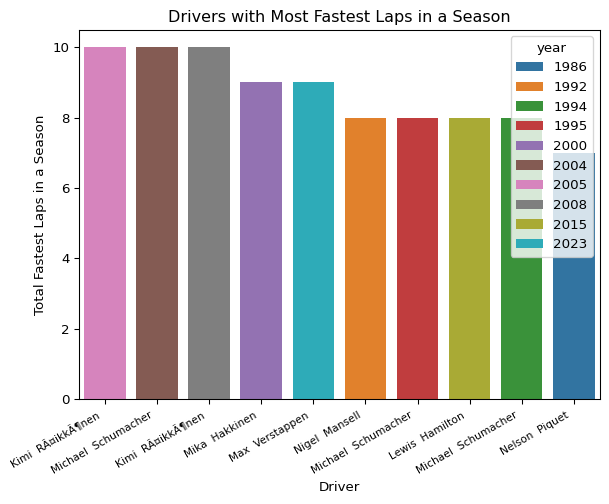
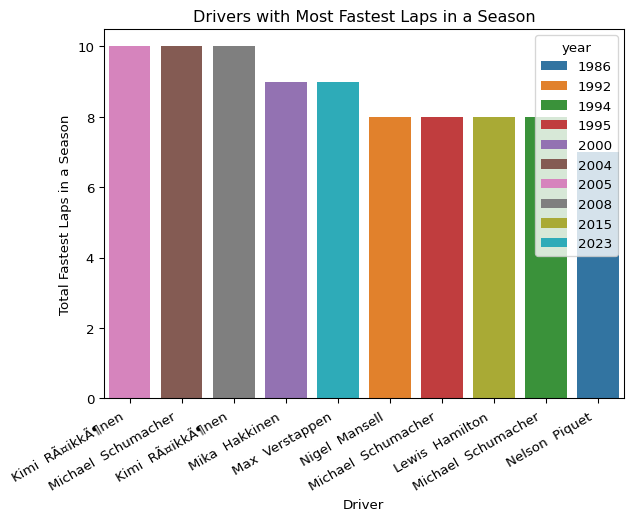
Updating README

diff --git a/README.md b/README.md
@@ -43,18 +43,7 @@ teams.head()
 winners.head()
 ```
 
-<div>
-<style scoped>
-    .dataframe tbody tr th:only-of-type {
-        vertical-align: middle;
-    }
-&#10;    .dataframe tbody tr th {
-        vertical-align: top;
-    }
-&#10;    .dataframe thead th {
-        text-align: right;
-    }
-</style>
+
 
 |  | Grand Prix | Date | Winner | Car | Laps | Time | Name Code |
 |----|----|----|----|----|----|----|----|
@@ -64,7 +53,6 @@ winners.head()
 | 3 | Switzerland | 1950-06-04 | Nino Farina | Alfa Romeo | 42.0 | 2:02:53.700 | FAR |
 | 4 | Belgium | 1950-06-18 | Juan Manuel Fangio | Alfa Romeo | 35.0 | 2:47:26.000 | FAN |
 
-</div>
 
 ## Question 1: How was the total number of F1 Races changed over time?
 
@@ -189,18 +177,6 @@ top_drivers = drivers_grouped.loc[idx].reset_index(drop=True)
 top_drivers
 ```
 
-<div>
-<style scoped>
-    .dataframe tbody tr th:only-of-type {
-        vertical-align: middle;
-    }
-&#10;    .dataframe tbody tr th {
-        vertical-align: top;
-    }
-&#10;    .dataframe thead th {
-        text-align: right;
-    }
-</style>
 
 |     | Car                          | Driver             | PTS    |
 |-----|------------------------------|--------------------|--------|
@@ -246,7 +222,6 @@ top_drivers
 | 39  | Williams Mercedes            | Valtteri Bottas    | 407.0  |
 | 40  | Williams Renault             | Damon Hill         | 326.0  |
 
-</div>
 
 ## Question 4: What are the all time point scorers for a single team?
 
@@ -272,7 +247,7 @@ sns.barplot(top_drivers_unique, x = 'Driver',y = 'PTS', hue = 'Car')
 plt.xlabel('Driver')
 plt.ylabel('Total Points')
 plt.title('Most Total Points for one Team')
-plt.xticks(rotation = 30, fontsize = 8)
+plt.xticks(rotation = 30, fontsize = 10)
 plt.show()
 ```
 
@@ -310,7 +285,7 @@ fastest_laps_plot['x'] = range(len(fastest_laps_plot))
 
 ``` python
 sns.barplot(data=fastest_laps_plot,x='x',y='Dummy',hue='year',dodge=False)
-plt.xticks(ticks=fastest_laps_plot['x'],labels=fastest_laps_plot['Driver'],rotation=30,ha='right', fontsize = 8)
+plt.xticks(ticks=fastest_laps_plot['x'],labels=fastest_laps_plot['Driver'],rotation=30,ha='right', fontsize = 10)
 plt.xlabel('Driver')
 plt.ylabel('Total Fastest Laps in a Season')
 plt.title('Drivers with Most Fastest Laps in a Season')
